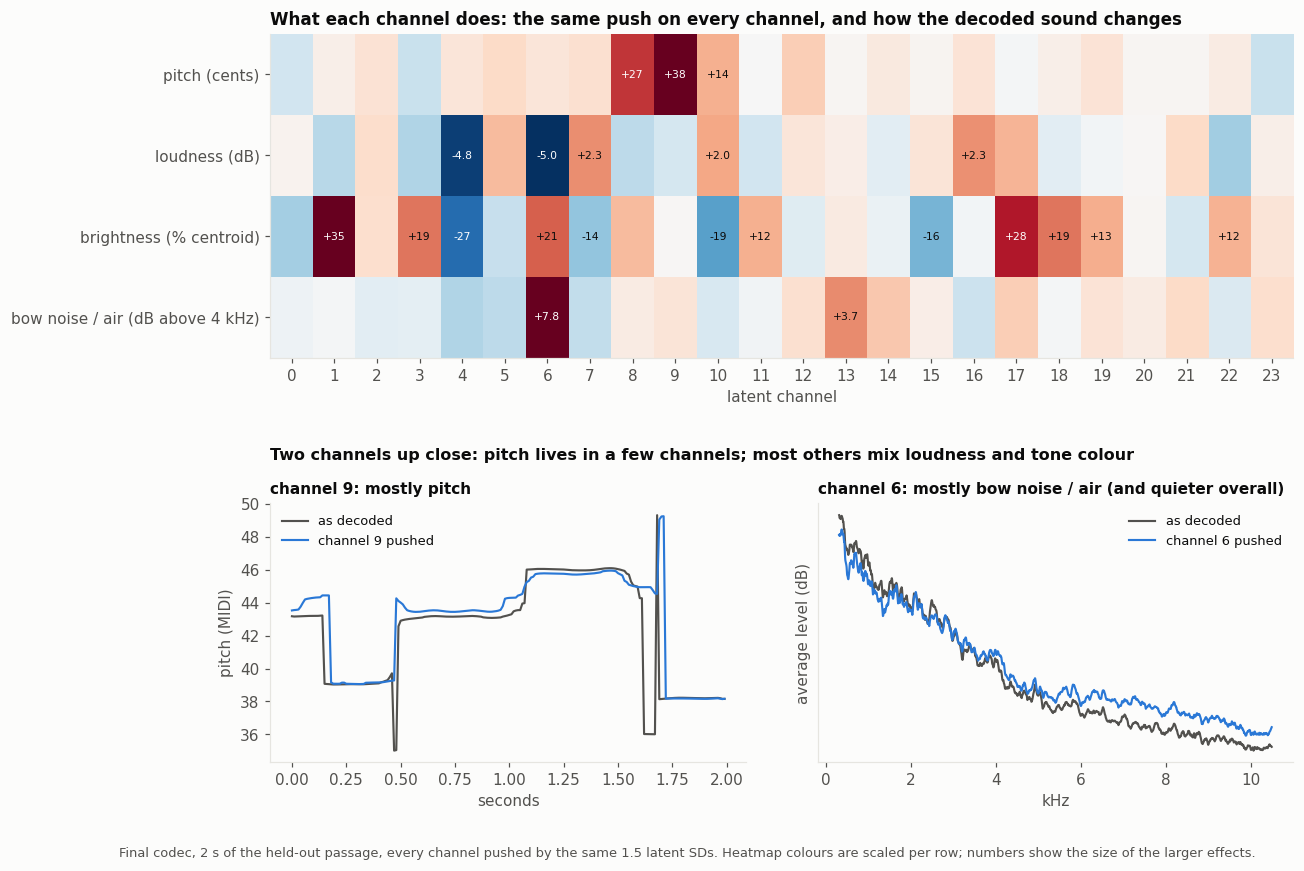
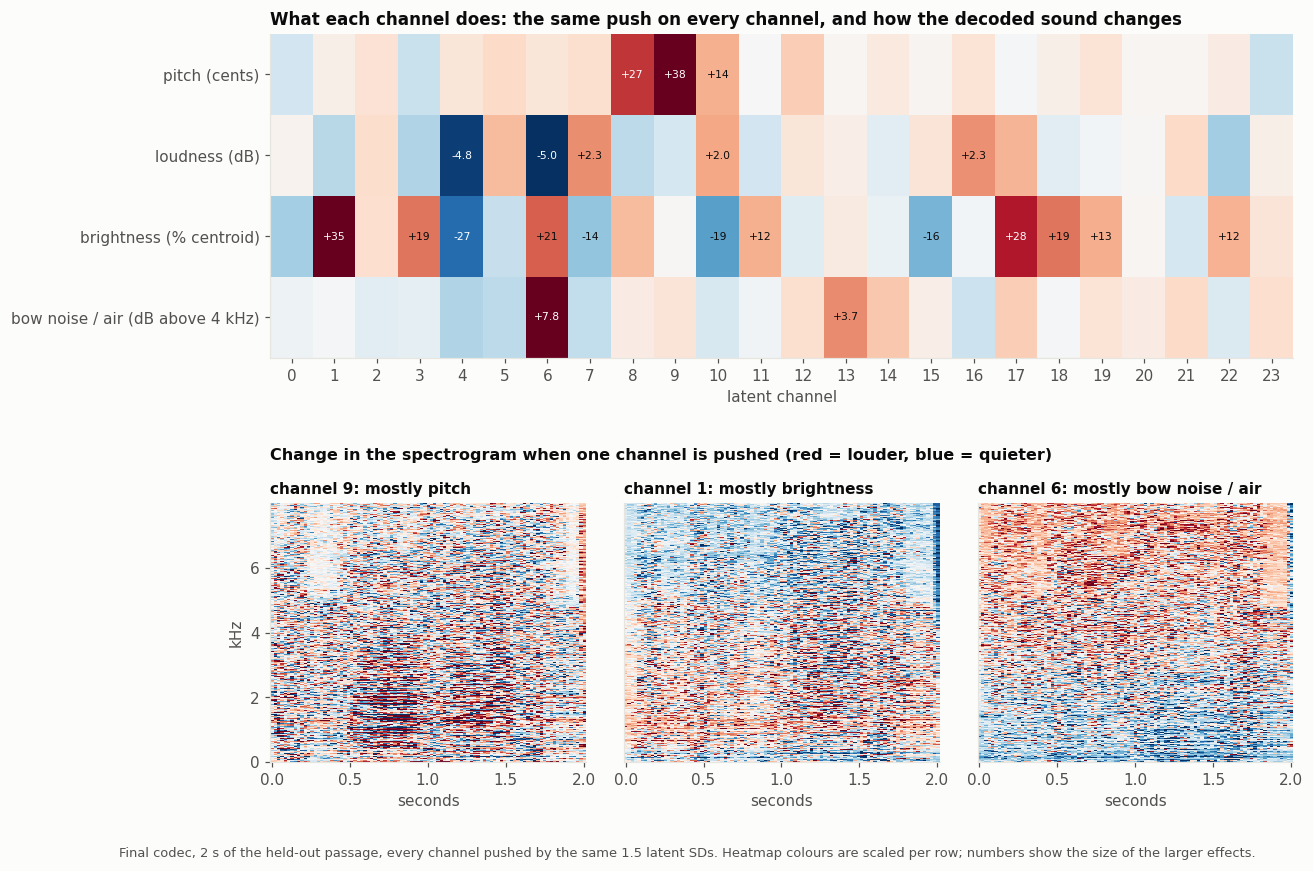
docs: restore three-channel spectrograms in channel figure

diff --git a/colab/cello_gan/make_insight_figs.py b/colab/cello_gan/make_insight_figs.py
@@ -63,7 +63,7 @@ for c in range(ZD):
     eff[c] = [b1["pitch"] - b0["pitch"], b1["loud"] - b0["loud"], 1200 * (b1["bright"] - b0["bright"]) / 1200 * 100, b1["air"] - b0["air"]]
 units = ["pitch (cents)", "loudness (dB)", "brightness (% centroid)", "bow noise / air (dB above 4 kHz)"]
 eff[:, 2] = 100 * (2 ** (eff[:, 2] / 100) - 1)                                                              # log2 ratio x100 -> percent change
-fig = plt.figure(figsize=(12, 8.6)); gs = fig.add_gridspec(2, 2, height_ratios=[1.25, 1], hspace=0.5, wspace=0.15)
+fig = plt.figure(figsize=(12, 8.6)); gs = fig.add_gridspec(2, 3, height_ratios=[1.25, 1], hspace=0.5, wspace=0.12)
 ax = fig.add_subplot(gs[0, :]); En = eff / np.abs(eff).max(0)
 ax.imshow(En.T, aspect="auto", cmap="RdBu_r", vmin=-1, vmax=1, interpolation="nearest")
 ax.set_yticks(range(4)); ax.set_yticklabels(units); ax.set_xticks(range(ZD)); ax.set_xlabel("latent channel")
@@ -72,35 +72,18 @@ for c in range(ZD):
         if abs(En[c, j]) > 0.35: ax.text(c, j, "%+.0f" % eff[c, j] if abs(eff[c, j]) >= 10 else "%+.1f" % eff[c, j], ha="center", va="center", fontsize=7, color="white" if abs(En[c, j]) > 0.7 else INK)
 ax.set_title("What each channel does: the same push on every channel, and how the decoded sound changes", loc="left")
 picks = []
-for j in (0, 3):                                                         # strongest channel for pitch, brightness, air, each channel used once
+for j in (0, 2, 3):                                                         # strongest channel for pitch, brightness, air, each channel used once
     o = np.argsort(-np.abs(eff[:, j])); picks.append(int(next(c for c in o if c not in picks)))
-labels = ["pitch", "bow noise / air (and quieter overall)"]
-_, ps = dec(z0 + 0)                                                         # pitch track of the base decode
-def avg_spec(y): f, P = ss.welch(y, SR, nperseg=4096); return f, 10 * np.log10(P + 1e-14)
+labels = ["pitch", "brightness", "bow noise / air"]
+f, t, S0d = ss.stft(y0, SR, nperseg=2048, noverlap=1536); B = 20 * np.log10(np.abs(S0d) + 1e-6); mm = f <= 8000
 for i, (c, lab) in enumerate(zip(picks, labels)):
-    a3 = fig.add_subplot(gs[1, i])
-    if i == 0:
-        z1 = z0.clone(); z1[:, c] += step; _, p1 = dec(z1); tt = np.arange(len(p0)) / 100
-        cen = lambda p: np.where(p > 40, 1200 * np.log2(np.clip(p, 40, None) / 440) / 100 + 69, np.nan)
-        a3.plot(tt, cen(p0), color=INK2, lw=1.4, label="as decoded"); a3.plot(tt, cen(p1), color=BLUE, lw=1.4, label="channel %d pushed" % c)
-        a3.set_xlabel("seconds"); a3.set_ylabel("pitch (MIDI)")
-    else:
-        f, B = avg_spec(y0); _, P1 = avg_spec(ys[c]); mm = (f > 300) & (f < 10500); sm = lambda v: np.convolve(np.pad(v, 7, mode="edge"), np.ones(15) / 15, "valid")
-        a3.plot(f[mm] / 1000, sm(B[mm]), color=INK2, lw=1.4, label="as decoded"); a3.plot(f[mm] / 1000, sm(P1[mm]), color=BLUE, lw=1.4, label="channel %d pushed" % c)
-        a3.set_xlabel("kHz"); a3.set_ylabel("average level (dB)"); a3.set_yticks([])
-    a3.set_title("channel %d: mostly %s" % (c, lab), loc="left", fontsize=10); a3.legend(frameon=False, fontsize=8.5)
-fig.text(0.125, 0.43, "Two channels up close: pitch lives in a few channels; most others mix loudness and tone colour", fontsize=10.5, weight="bold")
+    _, _, S1 = ss.stft(ys[c], SR, nperseg=2048, noverlap=1536); D = 20 * np.log10(np.abs(S1) + 1e-6) - B
+    a3 = fig.add_subplot(gs[1, i]); a3.pcolormesh(t, f[mm] / 1000, D[mm], shading="auto", cmap="RdBu_r", vmin=-15, vmax=15)
+    a3.set_title("channel %d: mostly %s" % (c, lab), loc="left", fontsize=10); a3.set_xlabel("seconds")
+    if i == 0: a3.set_ylabel("kHz")
+    else: a3.set_yticks([])
+fig.text(0.125, 0.43, "Change in the spectrogram when one channel is pushed (red = louder, blue = quieter)", fontsize=10.5, weight="bold")
 fig.text(0.01, 0.01, "Final codec, 2 s of the held-out passage, every channel pushed by the same 1.5 latent SDs. Heatmap colours are scaled per row; numbers show the size of the larger effects.", color=INK2, fontsize=8.5)
 fig.savefig(f"{OUTD}/channel_knobs.png", dpi=110, bbox_inches="tight"); plt.close(fig); print("wrote channel_knobs.png", "| picks", picks)
 np.set_printoptions(precision=1, suppress=True); print(eff)
 
-# 3b. the same pushes heard as spectrograms: as decoded, then the pitch, brightness and bow-noise channels pushed
-show = [(None, "as decoded")] + [(c, "channel %d pushed: %s" % (c, lab)) for c, lab in ((picks[0], "pitch +38 cents"), (1, "brightness, centroid +35%"), (picks[1], "bow noise / air +7.8 dB"))]
-fig, axs = plt.subplots(1, 4, figsize=(14, 4), sharey=True); vmax = None
-for ax, (c, lab) in zip(axs, show):
-    y = y0 if c is None else ys[c]; f, t, Sd = ss.stft(y, SR, nperseg=1024, noverlap=896); S_ = 20 * np.log10(np.abs(Sd) + 1e-6); mm = f <= 8000
-    vmax = S_[mm].max() if vmax is None else vmax
-    ax.pcolormesh(t, f[mm] / 1000, S_[mm], shading="auto", cmap="magma", vmin=vmax - 80, vmax=vmax); ax.set_title(lab, loc="left", fontsize=10); ax.set_xlabel("seconds")
-axs[0].set_ylabel("kHz")
-fig.suptitle("The same 2 s decoded with one channel pushed at a time (same push size, same colour scale)", x=0.01, ha="left", fontsize=11, weight="bold")
-fig.tight_layout(); fig.savefig(f"{OUTD}/channel_spectrograms.png", dpi=110); plt.close(fig); print("wrote channel_spectrograms.png")

diff --git a/README.md b/README.md
@@ -219,11 +219,6 @@ passage against 21%, the same halving as the 11.4% to 5.4% measured over the ful
 mostly adds bow noise and air. Most other channels mix loudness and tone colour. That is expected: I regularized for equal-sized
 effects (isometry), not for one meaning per channel (disentanglement).*
 
-![The same passage with one channel pushed at a time](docs/assets/channel_spectrograms.png)
-
-*The same pushes as spectrograms, on one colour scale. Pushing channel 6 lifts everything above about 4 kHz, the bow noise and air;
-channel 9 shifts the harmonics; channel 1 moves energy toward the middle of the spectrum.*
-
 ![The embedding](docs/assets/embedding.png)
 
 *Left: 40 s of music projected to 2D with PCA, coloured by pitch. Right: all 24 channels over time.*
